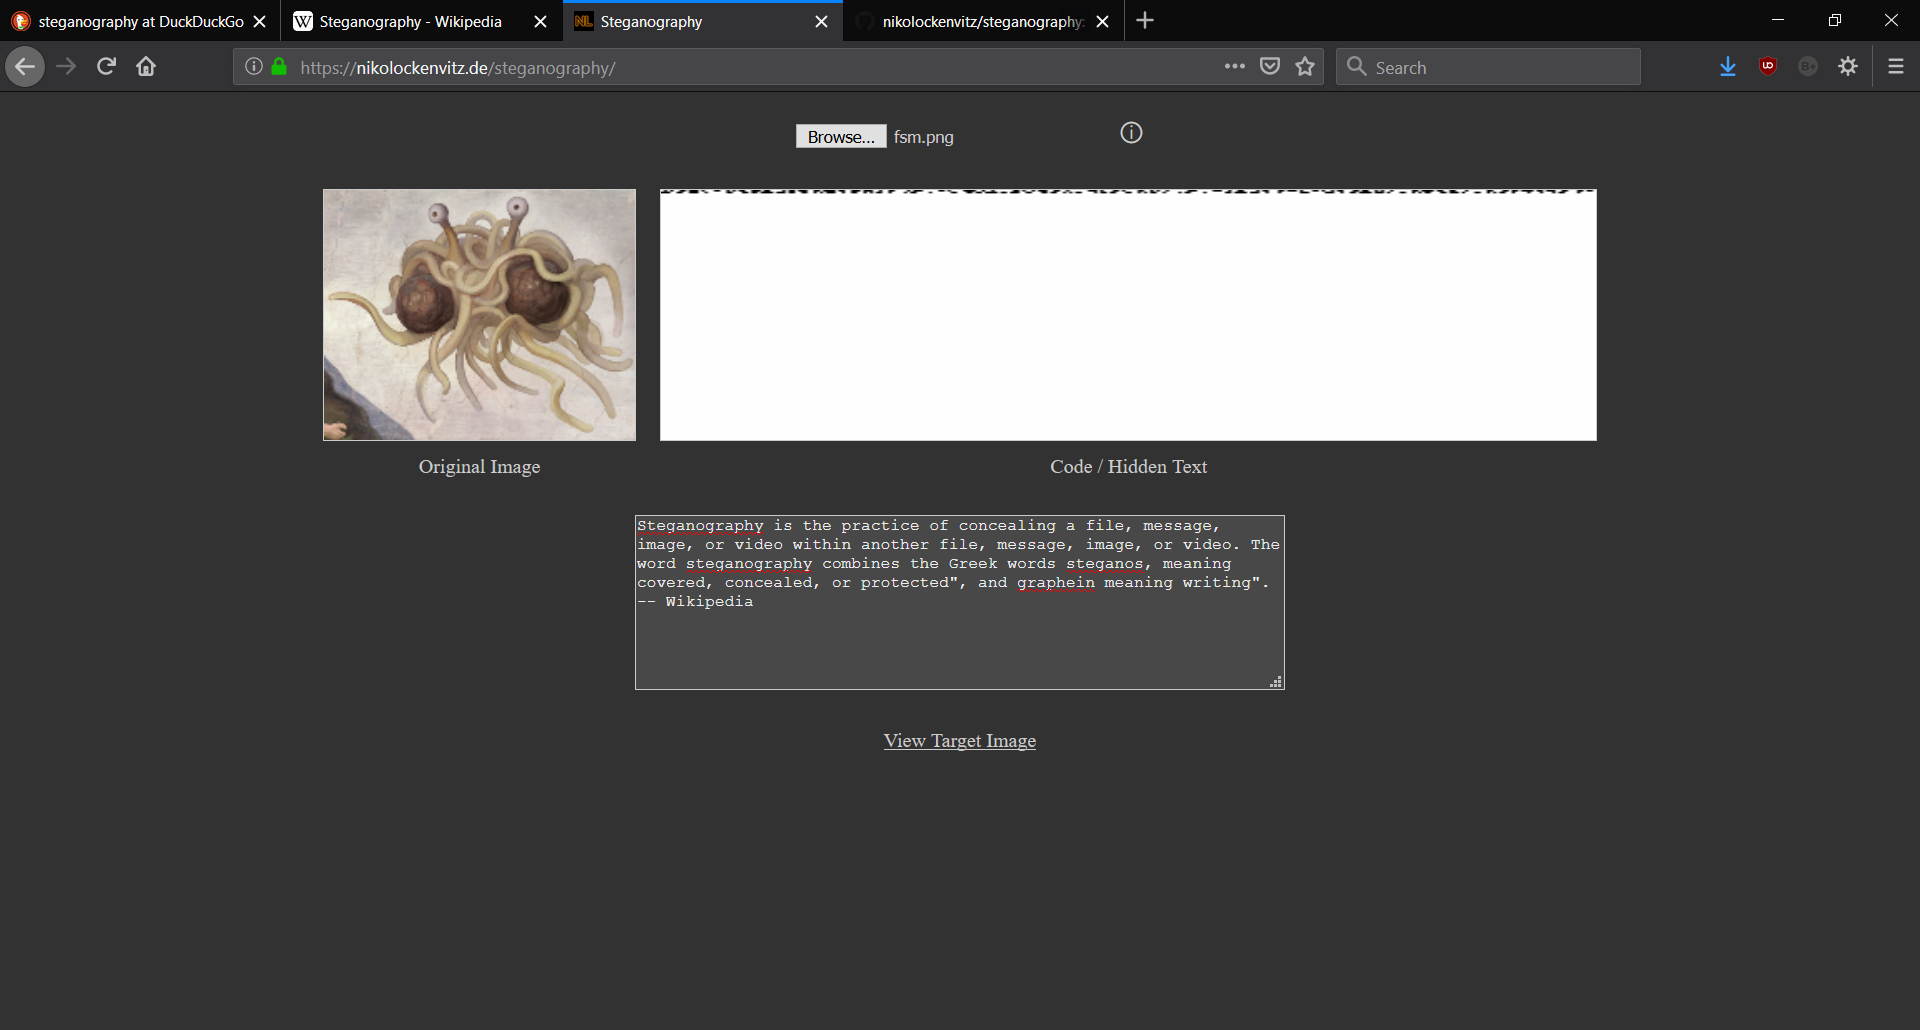
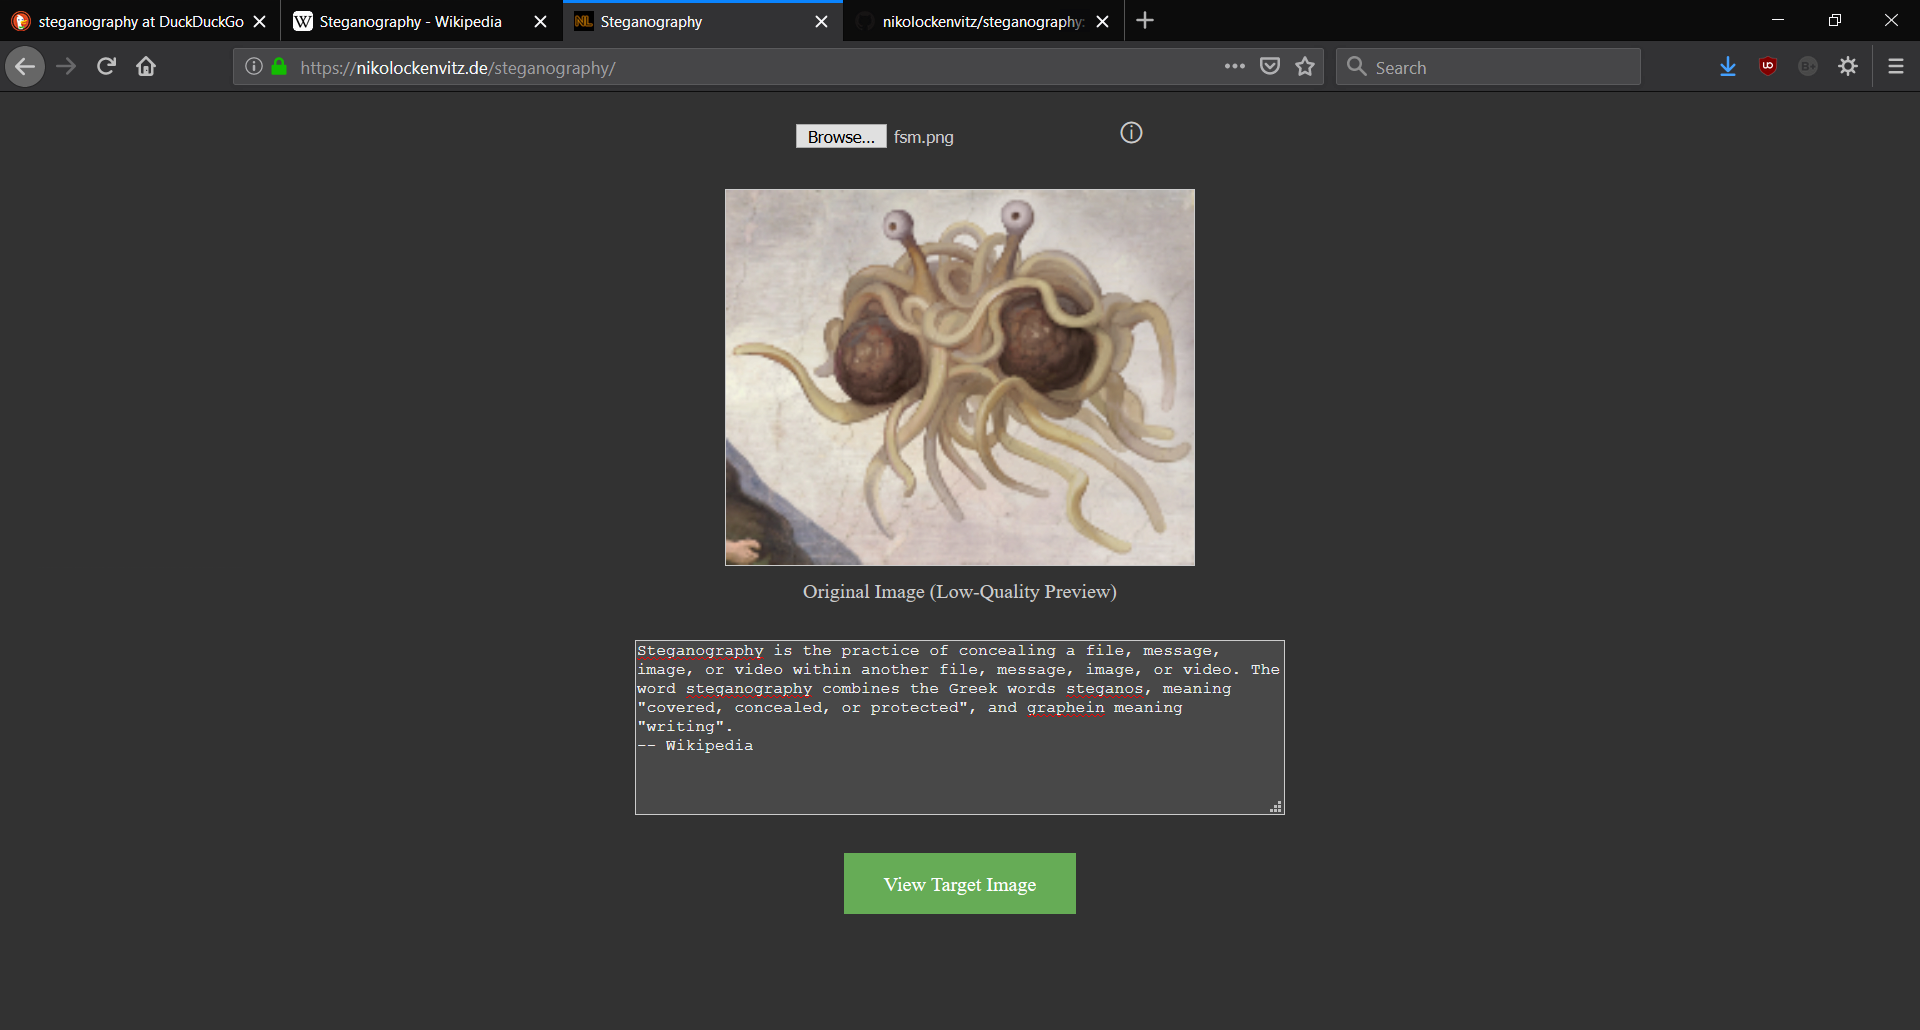
Design changes + performance improvements

Changed region(s): [[0.1562, 0.1864, 0.8438, 0.5903], [0.3125, 0.6214, 0.6562, 0.7456], [0.4375, 0.8078, 0.5625, 0.901]]

diff --git a/main.js b/main.js
@@ -1,24 +1,20 @@
 /* TODOs:
  *  - improve performance (especially for large images)
  *  - offer settings (fill with 0 / 1 / 0|1, ...)
+ *  - use RGBA (and/or RGB)
  *  - support Unicode
  *  - encryption, hide images, QR-Codes, ...
  */
 
 var canvasPreviewOriginal;
-var canvasPreviewCode;
 
-var canvasOriginal;
 var canvasTarget;
 
 var ctxPreviewOriginal;
-var ctxPreviewCode;
 
-var ctxOriginal;
 var ctxTarget;
 
 var imageDataOriginal;
-var imageDataCode;
 var imageDataTarget;
 
 var code;
@@ -26,36 +22,36 @@ var codeText;
 
 var imageLoader;
 
+const KEYSTROKE_TIMEOUT = 750; // time (millis) that is waited to generate target image after a keystroke
+var timeouts;
+
 window.onload = function () {
 	setup();
 }
 
 function setup () {
 	canvasPreviewOriginal = document.getElementById("canvasPreviewOriginal");
-	canvasPreviewCode = document.getElementById("canvasPreviewCode");
-	
-	canvasOriginal = document.createElement("canvas");
+
 	canvasTarget = document.createElement("canvas");
 	
 	ctxPreviewOriginal = canvasPreviewOriginal.getContext("2d");
-	ctxPreviewCode = canvasPreviewCode.getContext("2d");
 	
-	ctxOriginal = canvasOriginal.getContext("2d");
 	ctxTarget = canvasTarget.getContext("2d");
 	
 	imageDataOriginal = null;
-	imageDataCode = null;
 	imageDataTarget = null;
 	
 	code = [];
 	codeText = "";
 	
+	timeouts = [];
+	
 	imageLoader = document.getElementById("imageLoader");
 	imageLoader.addEventListener("change", handleImageUpload);
-	
+
 	textareaCode = document.getElementById("textarea-code");
-	textareaCode.addEventListener("input", updateCodeAndTarget);
-	
+	textareaCode.addEventListener("input", handleTextChange);
+
 	infoButton = document.getElementById("info-button");
 	infoButton.addEventListener("click", toggleInfoBox);
 }
@@ -69,7 +65,6 @@ function handleImageUpload (e) {
 			createPreviewOriginal(img);
 			
 			readCodeFromOriginalImage();
-			showCodeAsImage();
 		}
 		img.src = event.target.result;
 	}
@@ -77,10 +72,12 @@ function handleImageUpload (e) {
 }
 
 function setOriginalImage (img) {
-	canvasOriginal.width = img.width;
-	canvasOriginal.height = img.height;
-	ctxOriginal.drawImage(img, 0, 0);
-	imageDataOriginal = ctxOriginal.getImageData(0, 0, canvasOriginal.width, canvasOriginal.height);
+	var canvasTemp = document.createElement("canvas")
+	var ctxTemp = canvasTemp.getContext("2d");
+	canvasTemp.width = img.width;
+	canvasTemp.height = img.height;
+	ctxTemp.drawImage(img, 0, 0);
+	imageDataOriginal = ctxTemp.getImageData(0, 0, img.width, img.height);
 }
 
 function getCanvasPreviewWidth () {
@@ -92,7 +89,6 @@ function getCanvasPreviewWidth () {
 
 function createPreviewOriginal (img) {
 	canvasPreviewOriginal.width = getCanvasPreviewWidth();
-	canvasPreviewCode.width = canvasPreviewOriginal.width * 3;
 
 	ctxPreviewOriginal.drawImage(img, 0, 0, canvasPreviewOriginal.width, canvasPreviewOriginal.height);
 }
@@ -123,41 +119,28 @@ function readCodeFromOriginalImage () {
 	document.getElementById("textarea-code").value = codeText;
 }
 
-function showCodeAsImage () {
-	imageDataCode = ctxPreviewCode.createImageData(imageDataOriginal.width * 3, imageDataOriginal.height);
-	var i = 0;
-	for(var y=0; y<imageDataOriginal.height; y++) {
-		for(var x=0; x<imageDataOriginal.width; x++) {
-			for(var j=0; j<3; j++) {
-				for(var k=0; k<3; k++) {
-					imageDataCode.data[i++] = 255 * (1 - getCode(y * imageDataOriginal.width * 3 + x * 3 + j));
-				}
-				imageDataCode.data[i++] = 255;
-			}
-		}
-	}
-	var tempCanvas = document.createElement("canvas");
-	tempCanvas.width = imageDataCode.width;
-	tempCanvas.height = imageDataCode.height;
-	tempCanvas.getContext("2d").putImageData(imageDataCode, 0, 0);
-	ctxPreviewCode.scale(canvasPreviewCode.height / imageDataCode.height, canvasPreviewCode.height / imageDataCode.height);
-	ctxPreviewCode.drawImage(tempCanvas, 0, 0);
-
-	tempCanvas.toBlob(function(blob) {
-	  var url = (URL || webkitURL).createObjectURL(blob);
-	  document.getElementById("link-code").href = url;
-	});
-}
-
 function getCode (pos) {
 	if(pos >= code.length) {
-		return 0; // could also be 1 or randomly 0/1
+		return 0; // could also be 1 or randomly 0/1 or original value
 	}
 	return code[pos];
 }
 
-function updateCodeAndTarget (e) {
+function handleTextChange (e) {
+	// the new target image should not be generated with every new keystroke -> timeouts
+	for(var i in timeouts) {
+		window.clearTimeout(timeouts[i]);
+	}
+	timeouts = [];
+
+	document.getElementById("link-target").classList.add("disabled");
+	timeouts.push(window.setTimeout(updateCodeAndTarget, KEYSTROKE_TIMEOUT));
+}
+
+function updateCodeAndTarget () {
 	if(imageDataOriginal == null) { return; }
+
+	// update code
 	code = [];
 	codeText = document.getElementById("textarea-code").value;
 	for(var i=0; i<codeText.length; i++) {
@@ -172,8 +155,7 @@ function updateCodeAndTarget (e) {
 			}
 		}
 	}
-	showCodeAsImage();
-	
+
 	// update target
 	canvasTarget.width = imageDataOriginal.width;
 	canvasTarget.height = imageDataOriginal.height;
@@ -185,14 +167,16 @@ function updateCodeAndTarget (e) {
 			for(var j=0; j<3; j++) {
 				imageDataTarget.data[i++] = 2*Math.floor(colors[j]/2) + getCode(y * imageDataOriginal.width * 3 + x * 3 + j);
 			}
-			imageDataTarget.data[i++] = colors[3];
+			imageDataTarget.data[i++] = 255;
 		}
 	}
 	ctxTarget.putImageData(imageDataTarget, 0, 0);
-	
+
+	// update link
 	canvasTarget.toBlob(function(blob) {
-	  var url = (URL || webkitURL).createObjectURL(blob);
-	  document.getElementById("link-target").href = url;
+		var url = (URL || webkitURL).createObjectURL(blob);
+		document.getElementById("link-target").href = url;
+		document.getElementById("link-target").classList.remove("disabled");
 	});
 }
 
@@ -207,15 +191,6 @@ function readPixel (x, y, imageData) {
 			imageData.data[pos+1],
 			imageData.data[pos+2],
 			imageData.data[pos+3]];
-}
-
-function writePixel (x, y, r, g, b, imageData) {
-	imageData = (typeof imageData !== 'undefined') ? imageData : imageDataOriginal;
-	pos = getPixelPosition(x, y, imageData);
-	imageData.data[pos] = r;
-	imageData.data[pos+1] = g;
-	imageData.data[pos+2] = b;
-	imageData.data[pos+3] = 255;
 }
 
 

diff --git a/index.html b/index.html
@@ -26,7 +26,6 @@
 			Please select an image in which you want to hide some information or which already contains some hidden information.
 			After uploading you can see the content of the image. By changing this text, you can insert your own message into the image.
 			Download your image by clicking corresponding link below and then <i>Right Click &rarr; Save</i>.
-			Do not get confused when the quality of the pictures shown below is very bad - these are only previews (but you can click on the Code to view it in higher quality).
 			<br>
 			For more information visit <a href="https://github.com/nikolockenvitz/steganography">https://github.com/nikolockenvitz/steganography</a>
 		</div>
@@ -36,14 +35,7 @@
 					<canvas id="canvasPreviewOriginal"></canvas>
 				</label>
 				<br>
-				Original Image
-			</div>
-			<div>
-				<a id="link-code" href="" target="_blank">
-					<canvas id="canvasPreviewCode"></canvas>
-				</a>
-				<br>
-				Code / Hidden Text
+				Original Image (Low-Quality Preview)
 			</div>
 		</div>
 		<div class="box">
@@ -54,7 +46,7 @@
 		</div>
 		<div class="box">
 			<div>
-				<a id="link-target" href="" target="_blank">View Target Image</a>
+				<a id="link-target" class="button disabled" href="" target="_blank">View Target Image</a>
 			</div>
 		</div>
 	</body>

diff --git a/style.css b/style.css
@@ -31,7 +31,7 @@ div {
 }
 
 canvas {
-	height: 200px;
+	height: 300px;
 	border: 1px solid #ccc;
 	margin: 1vh;
 }
@@ -48,4 +48,19 @@ a {
 }
 a:hover {
 	color: #fff;
+}
+
+a.button {
+	background-color: #66ad57;
+	border: none;
+	color: #fff;
+	padding: 15px 32px;
+	text-align: center;
+	text-decoration: none;
+	display: inline-block;
+	cursor: pointer;
+}
+a.disabled {
+	opacity: 0.6;
+	cursor: not-allowed;
 }
